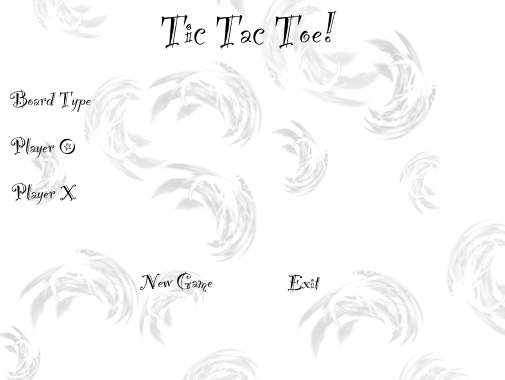
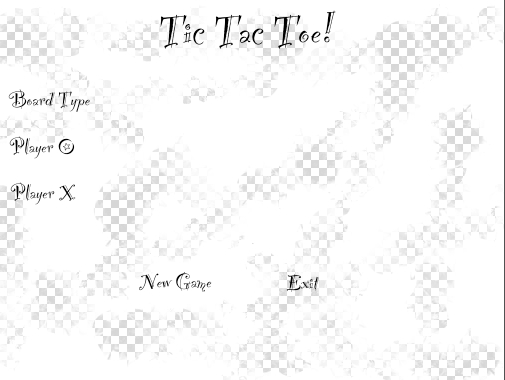
updated images, default stage size

diff --git a/default_scene/styles.rb b/default_scene/styles.rb
@@ -5,10 +5,8 @@
 # For a complete listing of style attributes see: http://limelightwiki.8thlight.com/index.php/Style_Attributes
 
 default_scene {
+  background_image "images/background_board.jpg"
   background_color :white
-  secondary_background_color :black
-  gradient_angle 180
-  gradient :on
   horizontal_alignment :center
   vertical_alignment :center
   width "100%"
@@ -34,16 +32,14 @@ row {
 square {
   height 130
   width 130
-  border_color "#2661da"
+  border_color :dim_grey
   border_width 1
   horizontal_alignment :center
   vertical_alignment :bottom
-  gradient :on
   font_size 120
   font_face :helvetica
   background_color :white
   hover {
-    background_color "#DEEFF9"
     border_width 1
   }
 }

diff --git a/stages.rb b/stages.rb
@@ -3,7 +3,7 @@
 stage "default" do
   title "Limelight Tic Tac Toe"
   location [:center, :center]
-  size [625, 700]
+  size [825, 700]
 end
 
 stage "options" do
